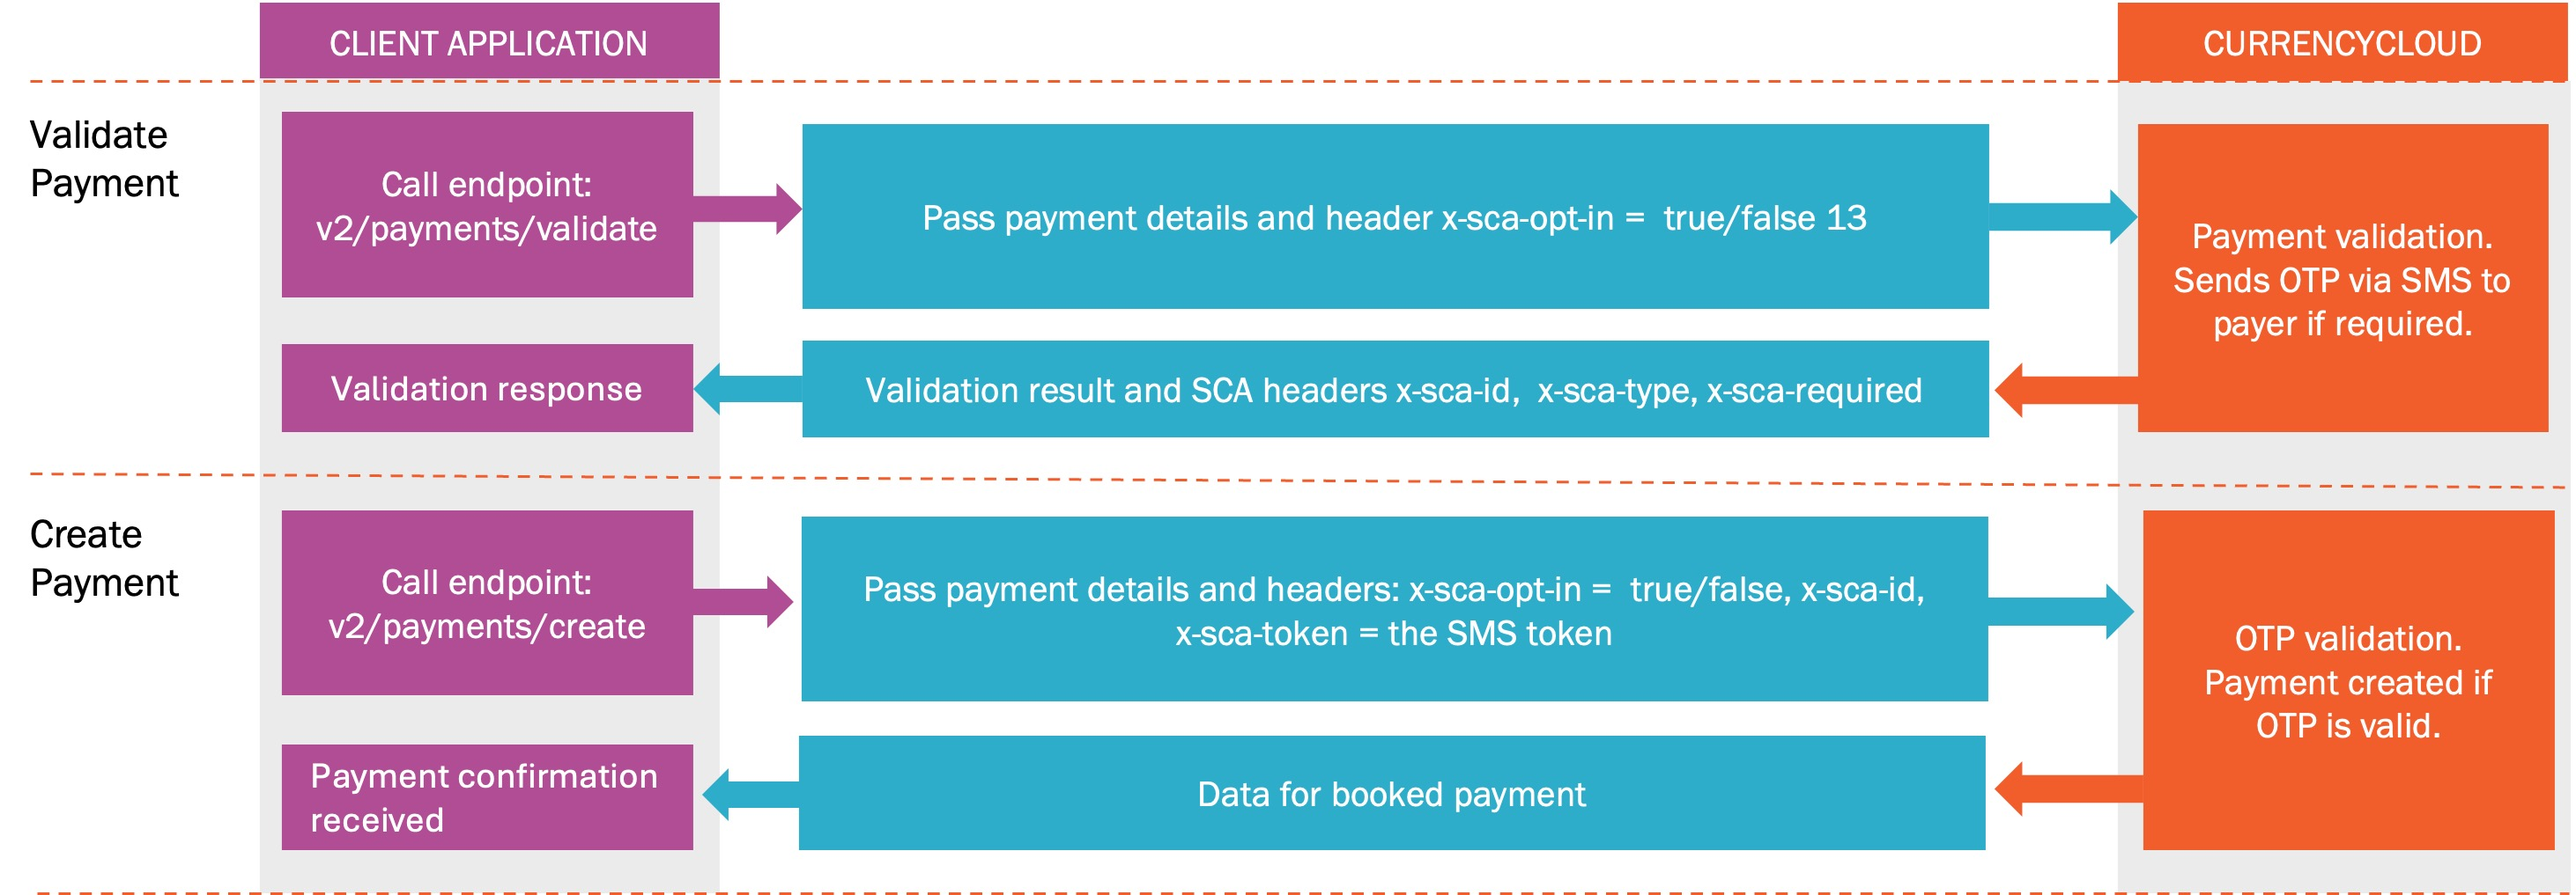
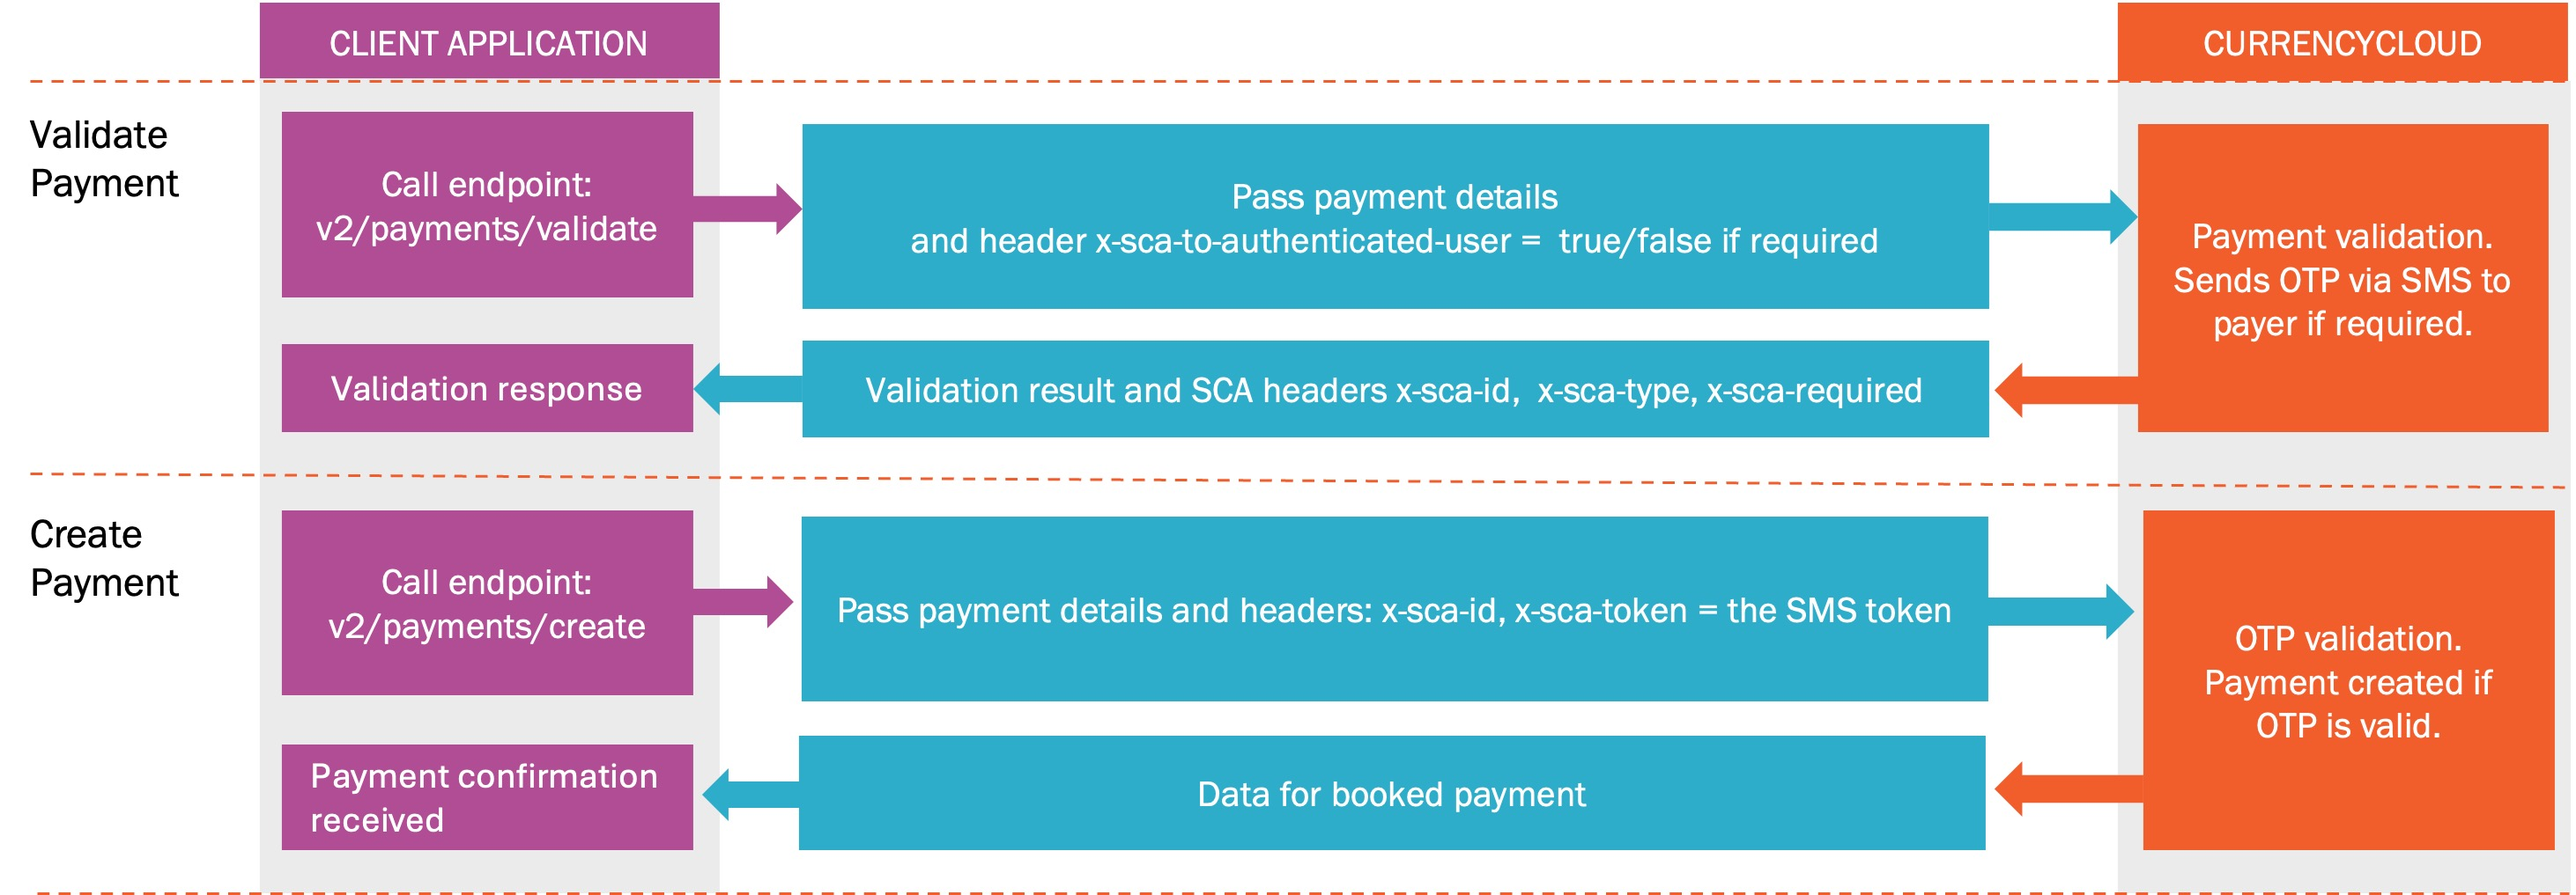
Updates for new header

Changed region(s): [[0.3423, 0.2134, 0.7469, 0.3048], [0.3112, 0.6401, 0.778, 0.7316]]

diff --git a/data/local/pages/integration-guides/sca_sponsored_api_payments.md b/data/local/pages/integration-guides/sca_sponsored_api_payments.md
@@ -11,19 +11,26 @@ To make payments using our API, in-scope clients are required to apply Strong Cu
 
 ![collections](/images/workflow_diagrams/13_sca_api_payments.jpg)
 
-## Step 1: Ensure that we have the correct phone number
-When you initiate the payment process on behalf of your customers, we will send
-a one-time password (OTP) via SMS to your customer that you will need to provide
-in a subsequent request header. It is therefore crucial that we have the correct
-mobile phone numbers for your customers.
+## Step 1: Ensure that we have the correct phone numbers
+When you initiate the payment process, we will send a one-time password (OTP) via SMS. You will need to provide this OTP in a subsequent request header.
 
-To update their contact details, please contact support through the Currencycloud Direct platform. We encourage you to raise a single ticket to update the contact details for your customers.
+Who receives the OTP depends on the circumstances:
+
+- If you are making your own payments, the OTP will be sent to your registered mobile number.
+
+- If you are making payments on behalf of your customers, the OTP will be sent to your customer’s registered mobile number.
+
+- If you are making payments on behalf of your customers and **Currencycloud is responsible for onboarding your customers**, you may include the optional `x-sca-to-authenticated-user` header (set to true). This will send the OTP to your registered mobile number instead of your customer’s.
+
+It is essential that the registered mobile phone numbers for OTP recipients are accurate and up to date. To update contact details, please contact support through the Currencycloud Direct platform. We encourage you to raise a single ticket to update the contact details for your customers.
 
 ## Step 2: Validate the Payment
 Before initiating a payment, call the [Validate Payment](/api-reference/#validate-payment)
-endpoint, passing the payment details. Set the Boolean header, `x-sca-opt-in`,
-to `true` if you have been informed by Currencycloud that your service model is
-in-scope for SCA for API payments. If the payment passes the validation and you
+endpoint, passing the payment details. If Currencycloud is responsible for onboarding your customers, you may include the optional `x-sca-to-authenticated-user` header. Setting this to true will send the OTP  to the authenticated user instead of your customer.
+
+Note: If you set the `x-sca-to-authenticated-user` header to true but your account is not configured for Currencycloud-led onboarding, the API request will be rejected with an error.
+
+If the payment passes the validation and you
 are in-scope for SCA then your customer will receive a OTP via SMS to their
 phone which is valid for 10 minutes. The response object will contain the
 following headers:
@@ -94,7 +101,6 @@ When you are ready to [make the payment](/guides/integration-guides/make-simple-
 
 | **Header Name**   | **Description**                                                                                                         |
 |-------------------|-------------------------------------------------------------------------------------------------------------------------|
-| `x-sca-opt-in`      | Set to true if you have been informed by Currencycloud that your service model is in-scope for SCA for API payments.     |
 | `x-sca-id`          | The UUID returned by the Validate Payment request (step 2 above).                                                       |
 | `x-sca-token`       | The OTP received following the Validate Payment request.                                                                |
 
